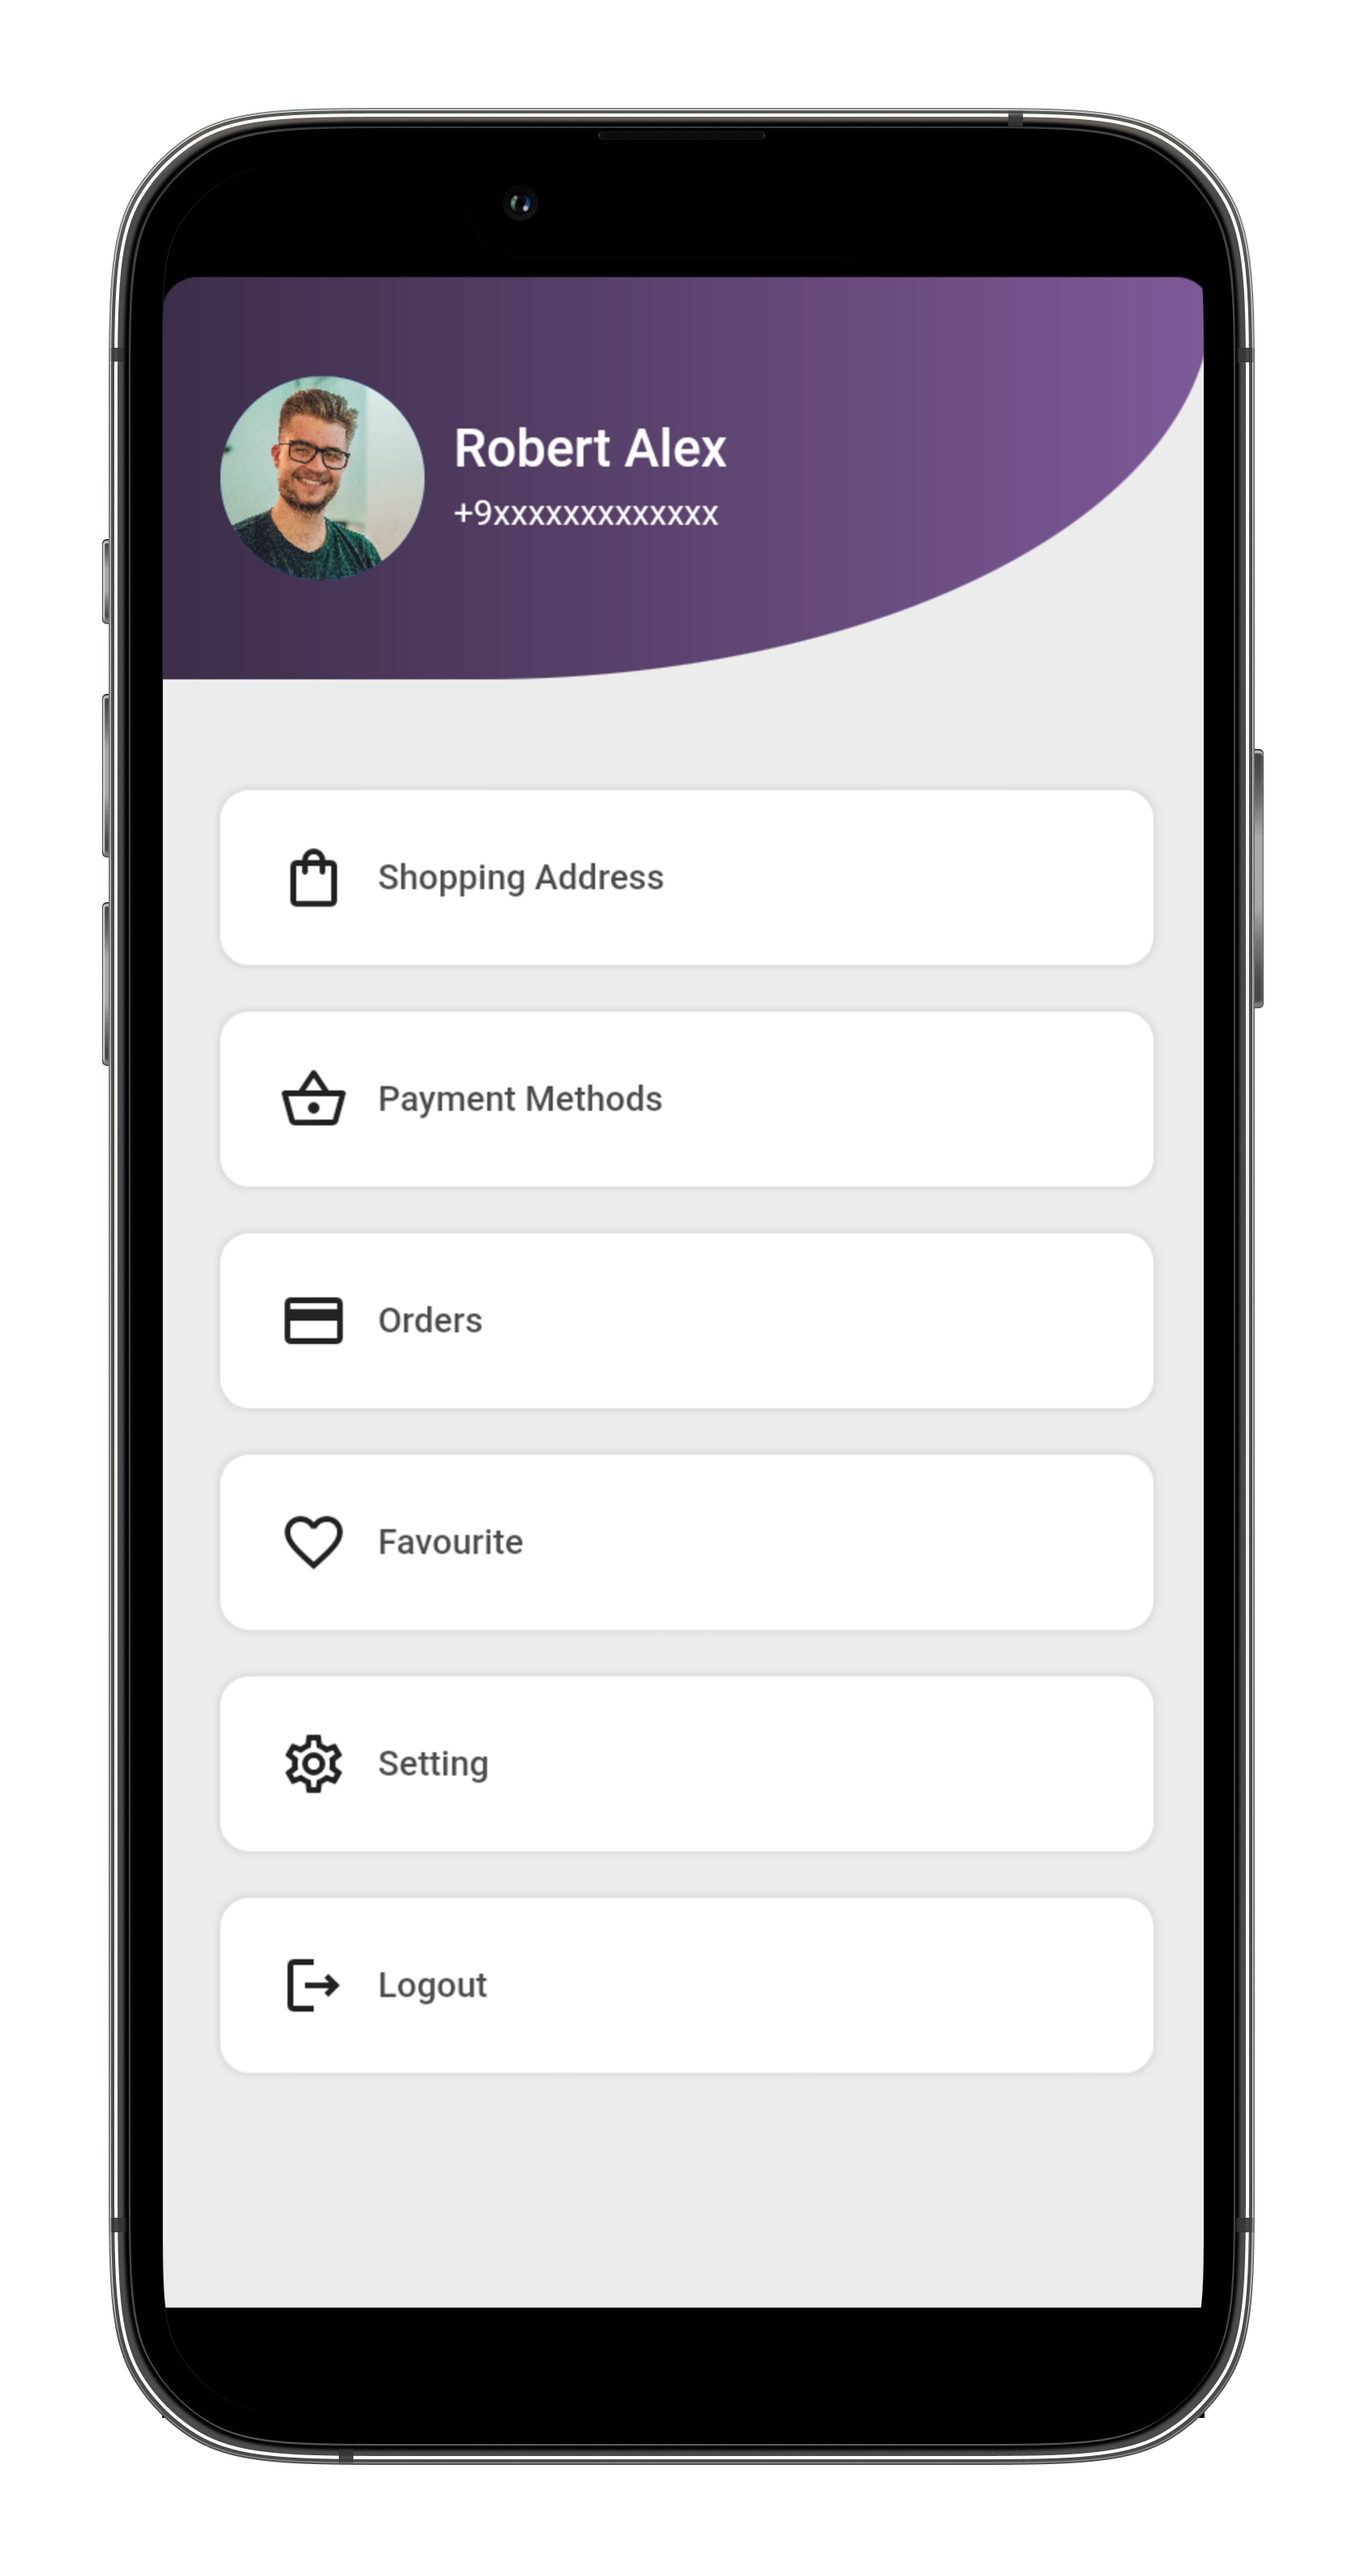
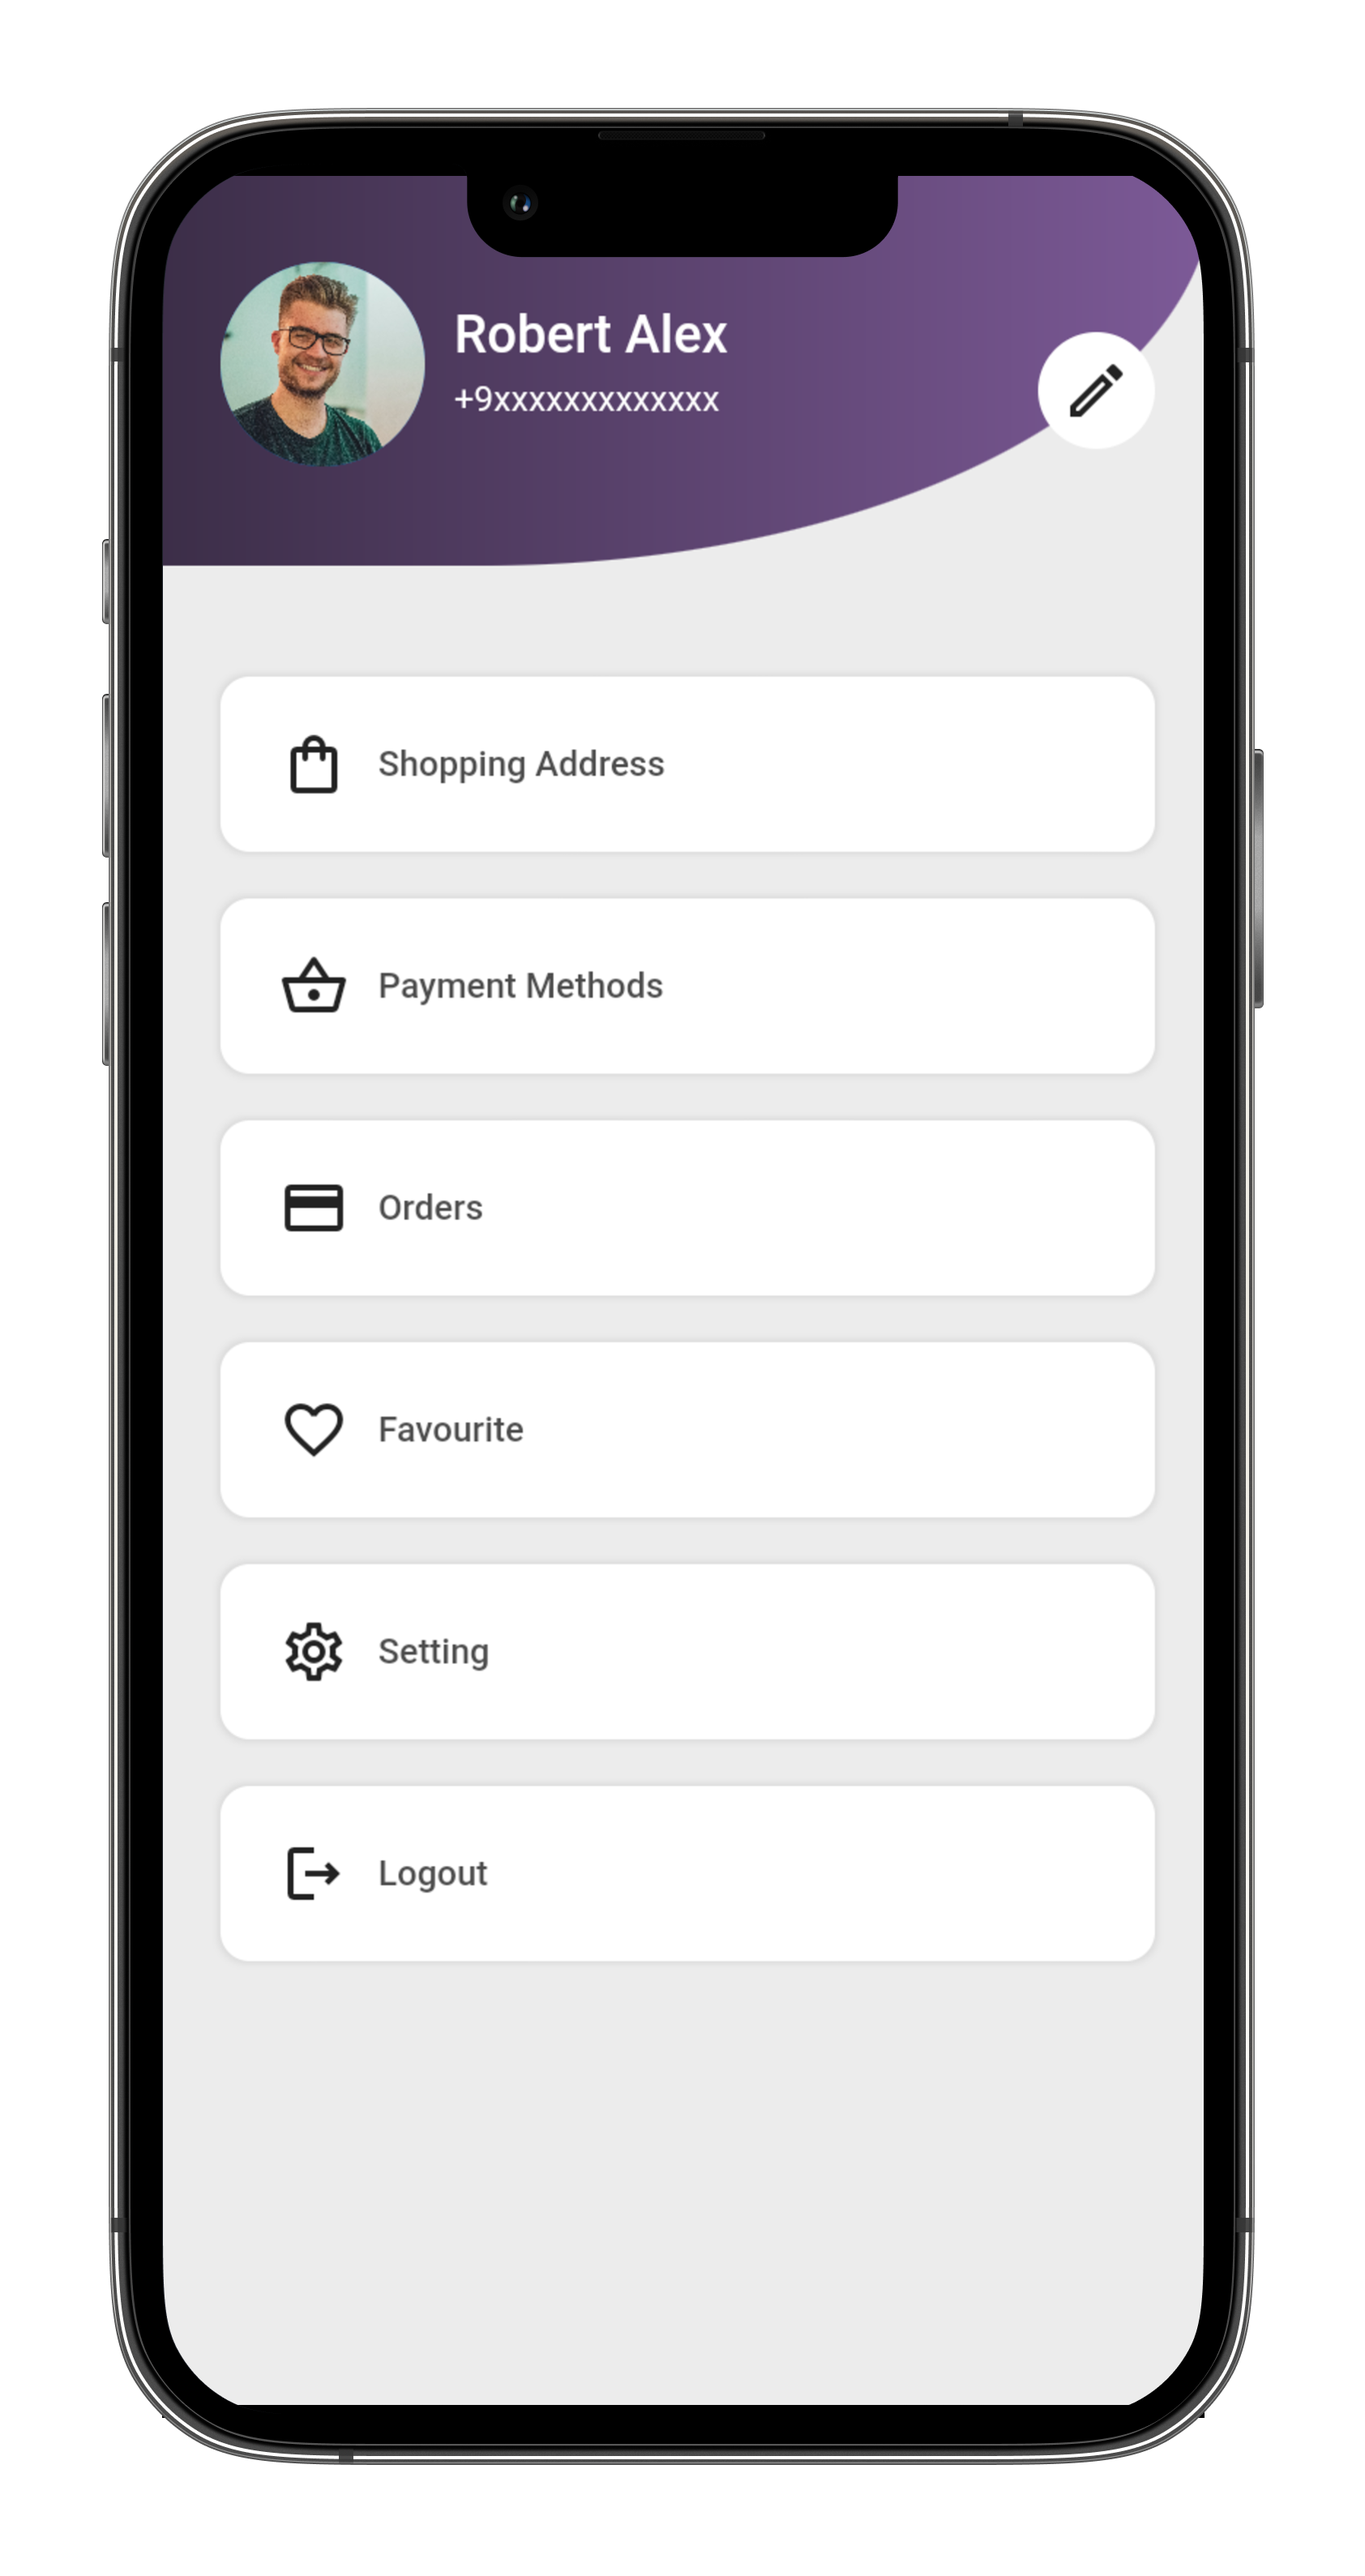
added another image

Changed region(s): [[0.0926, 0.0623, 0.8955, 0.7788], [0.1235, 0.8722, 0.8955, 0.9346], [0.1544, 0.5607, 0.1853, 0.5919]]

diff --git a/lib/screens/useraccount_screen.dart b/lib/screens/useraccount_screen.dart
@@ -68,13 +68,24 @@ class UserAccountScreen extends StatelessWidget {
                     radius: 35,
                     backgroundImage: AssetImage('./images/pot1.jpg'),
                   ),
-                )
+                ),
+                Positioned(
+                    top: 90,
+                    left: 300,
+                    child: Container(
+                      height: 40,
+                      width: 40,
+                      decoration: BoxDecoration(
+                          borderRadius: BorderRadius.circular(20),
+                          color: Colors.white),
+                      child: Icon(
+                        Icons.edit_outlined,
+                      ),
+                    )),
               ],
             ),
           ),
-          Container(
-            child: Column(children: createUserProfile()),
-          )
+          Column(children: createUserProfile())
         ],
       ),
     );
